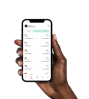
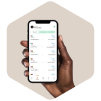
home screen

diff --git a/lib/features/ main_screen/presentation/widgets/home_view.dart b/lib/features/ main_screen/presentation/widgets/home_view.dart
@@ -3,6 +3,7 @@ import 'package:traderx/constants/colors.dart';
 import 'package:traderx/constants/spacing.dart';
 import 'package:traderx/constants/text_styles.dart';
 import 'package:traderx/features/%20main_screen/presentation/widgets/refactored_widgets/account_card.dart';
+import 'package:traderx/features/%20main_screen/presentation/widgets/refactored_widgets/account_header.dart';
 
 class HomeView extends StatelessWidget {
   const HomeView({Key? key}) : super(key: key);
@@ -14,40 +15,89 @@ class HomeView extends StatelessWidget {
       body: SafeArea(
         child: Padding(
           padding: const EdgeInsets.symmetric(horizontal: 24.0, vertical: 45.0),
-          child: Column(
-            children:  [
-              Row(
-                crossAxisAlignment: CrossAxisAlignment.center,
-                children: [
-                  const CircleAvatar(
-                    radius: 22,
-                    backgroundImage: AssetImage('assets/images/img2.png'),
+          child: SingleChildScrollView(
+            child: Column(
+              children: [
+                const AccountHeader(),
+                const AccountCard(
+                  title: "Checkings Account",
+                  subtitle: "\$25,000.00",
+                  headerColor: kPrimary50,
+                ),
+                const AccountCard(
+                  title: "Business Account",
+                  subtitle: "\$5,000.00",
+                  headerColor: kSecondary50,
+                ),
+                Container(
+                  margin: const EdgeInsets.only(top: 24.0),
+                  width: MediaQuery.of(context).size.width,
+                  padding: const EdgeInsets.symmetric(
+                      vertical: 10.0, horizontal: 12.0),
+                  decoration: BoxDecoration(
+                    color: kCardBg,
+                    borderRadius: BorderRadius.circular(15),
                   ),
-                  horizontalSpaceTiny,
-                  Column(
-                    crossAxisAlignment: CrossAxisAlignment.start,
+                  child: Row(
                     children: [
-                      Text('Welcome', style: AppStyle.kRegular14),
-                      Text('Michael Ajayi', style: AppStyle.kTitleText.copyWith(fontSize: 18, height: 1.2)),
+                      Image.asset("assets/icons/group.png"),
+                      horizontalSpaceSmall,
+                      Column(
+                        children: [
+                          Text(
+                            "Get \$5 plus 10% of the fee for 365 days ",
+                            style: AppStyle.kRegular14
+                                .copyWith(fontWeight: FontWeight.w700),
+                          ),
+                          Text(
+                            "Refer a friend and get \$5 when they make their first dollars to naira exchange of \$500 and above, "
+                            "plus 10% of the fee everytime they make exchange for 365 days.",
+                            style: AppStyle.kRegular12.copyWith(color: kGray8),
+                          )
+                        ],
+                      )
                     ],
-                  )
-                ]
-              ),
-              const AccountCard(
-                title: "Checkings Account",
-                subtitle: "\$25,000.00",
-                headerColor: kPrimary50,
-              ),
-              const AccountCard(
-                title: "Business Account",
-                subtitle: "\$5,000.00",
-                headerColor: kSecondary50,
-              ),
-            ],
+                  ),
+                ),
+                Container(
+                  margin: const EdgeInsets.only(top: 24.0),
+                  width: MediaQuery.of(context).size.width,
+                  padding: const EdgeInsets.symmetric(
+                      vertical: 10.0, horizontal: 12.0),
+                  decoration: BoxDecoration(
+                    color: kCardBg2,
+                    borderRadius: BorderRadius.circular(15),
+                  ),
+                  child: Column(
+                    children: [
+                      Row(
+                        children: [
+                          Image.asset("assets/images/img1.png"),
+                          horizontalSpaceSmall,
+                          Column(
+                            crossAxisAlignment: CrossAxisAlignment.start,
+                            children: [
+                              Text(
+                                "Currency Exchange",
+                                style: AppStyle.kRegular14
+                                    .copyWith(fontWeight: FontWeight.w700),
+                              ),
+                              Text(
+                                "View pending and completed exchange request",
+                                style: AppStyle.kRegular12.copyWith(color: kGray8),
+                              )
+                            ],
+                          ),
+                        ],
+                      )
+                    ]
+                  ),
+                )
+              ],
+            ),
           ),
         ),
       ),
     );
   }
 }
-

diff --git a/lib/features/ main_screen/presentation/widgets/refactored_widgets/account_header.dart b/lib/features/ main_screen/presentation/widgets/refactored_widgets/account_header.dart
@@ -1,0 +1,46 @@
+import 'package:badges/badges.dart';
+import 'package:flutter/material.dart';
+import 'package:traderx/constants/colors.dart';
+import 'package:traderx/constants/spacing.dart';
+import 'package:traderx/constants/text_styles.dart';
+
+class AccountHeader extends StatelessWidget {
+  const AccountHeader({
+    Key? key,
+  }) : super(key: key);
+
+  @override
+  Widget build(BuildContext context) {
+    return Row(
+      crossAxisAlignment: CrossAxisAlignment.center,
+      children: [
+        const CircleAvatar(
+          radius: 22,
+          backgroundImage: AssetImage('assets/images/img2.png'),
+        ),
+        horizontalSpaceTiny,
+        Column(
+          crossAxisAlignment: CrossAxisAlignment.start,
+          children: [
+            Text('Welcome', style: AppStyle.kRegular14),
+            Text(
+              'Michael Ajayi',
+              style: AppStyle.kTitleText.copyWith(fontSize: 18, height: 1.2),
+            ),
+          ],
+        ),
+        const Spacer(),
+        CircleAvatar(
+          backgroundColor: kIconBg2,
+          child: Badge(
+            position: BadgePosition.topEnd(top: 0, end: 3),
+            child: const Icon(
+              Icons.notifications,
+              color: kIconBg,
+            ),
+          ),
+        )
+      ],
+    );
+  }
+}

diff --git a/lib/constants/colors.dart b/lib/constants/colors.dart
@@ -1,9 +1,14 @@
 import 'package:flutter/material.dart';
 
 
+const kCardBg = Color(0XFFE2F3FC);
+const kCardBg2 = Color(0XFFF7F7F7);
+const kIconBg = Color(0XFF959595);
+const kIconBg2 = Color(0X1A6A6A6A);
 const kGrayShadow = Color(0X1ABEBEBE);
 const kGrayDark = Color(0XFF0E0E0E);
 const kGrayDim = Color(0XFF636363);
+const kGray8 = Color(0XFF4B4A4A);
 const kGray85 = Color(0XFFD9D9D9);
 const kWhite = Color(0XFFFFFFFF);
 const kWhiteSmoke = Color(0XFFF8F8F8);

diff --git a/lib/features/ main_screen/presentation/widgets/refactored_widgets/account_card.dart b/lib/features/ main_screen/presentation/widgets/refactored_widgets/account_card.dart
@@ -25,6 +25,7 @@ class AccountCard extends StatelessWidget {
           padding: const EdgeInsets.symmetric(horizontal: 12, vertical: 10),
           decoration:  BoxDecoration(
             color: headerColor,
+            border: Border.all(color: kWhisper),
             borderRadius: const BorderRadius.only(
               topLeft: Radius.circular(10),
               topRight: Radius.circular(10),

diff --git a/lib/constants/spacing.dart b/lib/constants/spacing.dart
@@ -1,6 +1,7 @@
 import 'package:flutter/material.dart';
 
 const Widget horizontalSpaceTiny = SizedBox(width: 5.0);
+const Widget horizontalSpaceSmall = SizedBox(width: 10.0);
 const Widget horizontalSpaceSmall1 = SizedBox(width: 14.0);
 const Widget horizontalSpaceRegular = SizedBox(width: 16.0);
 
